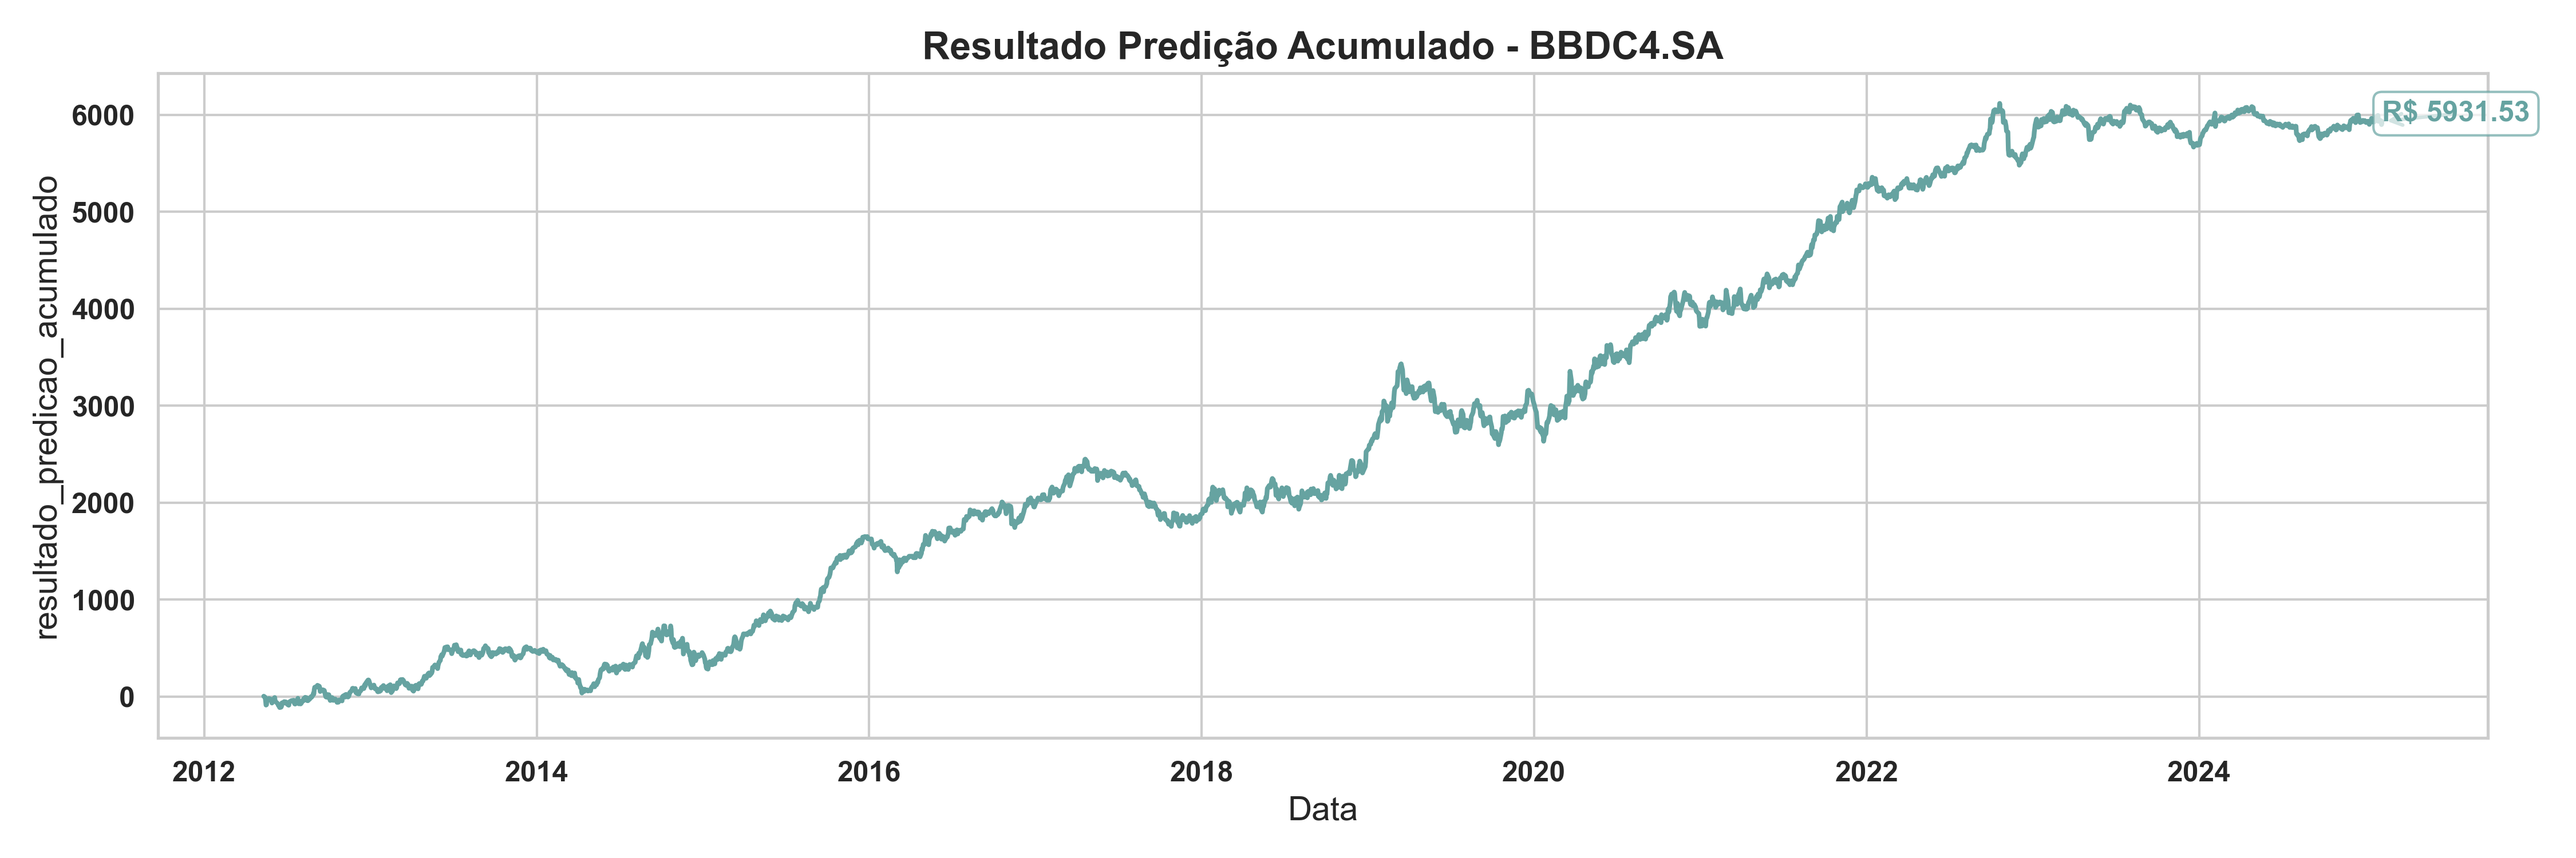
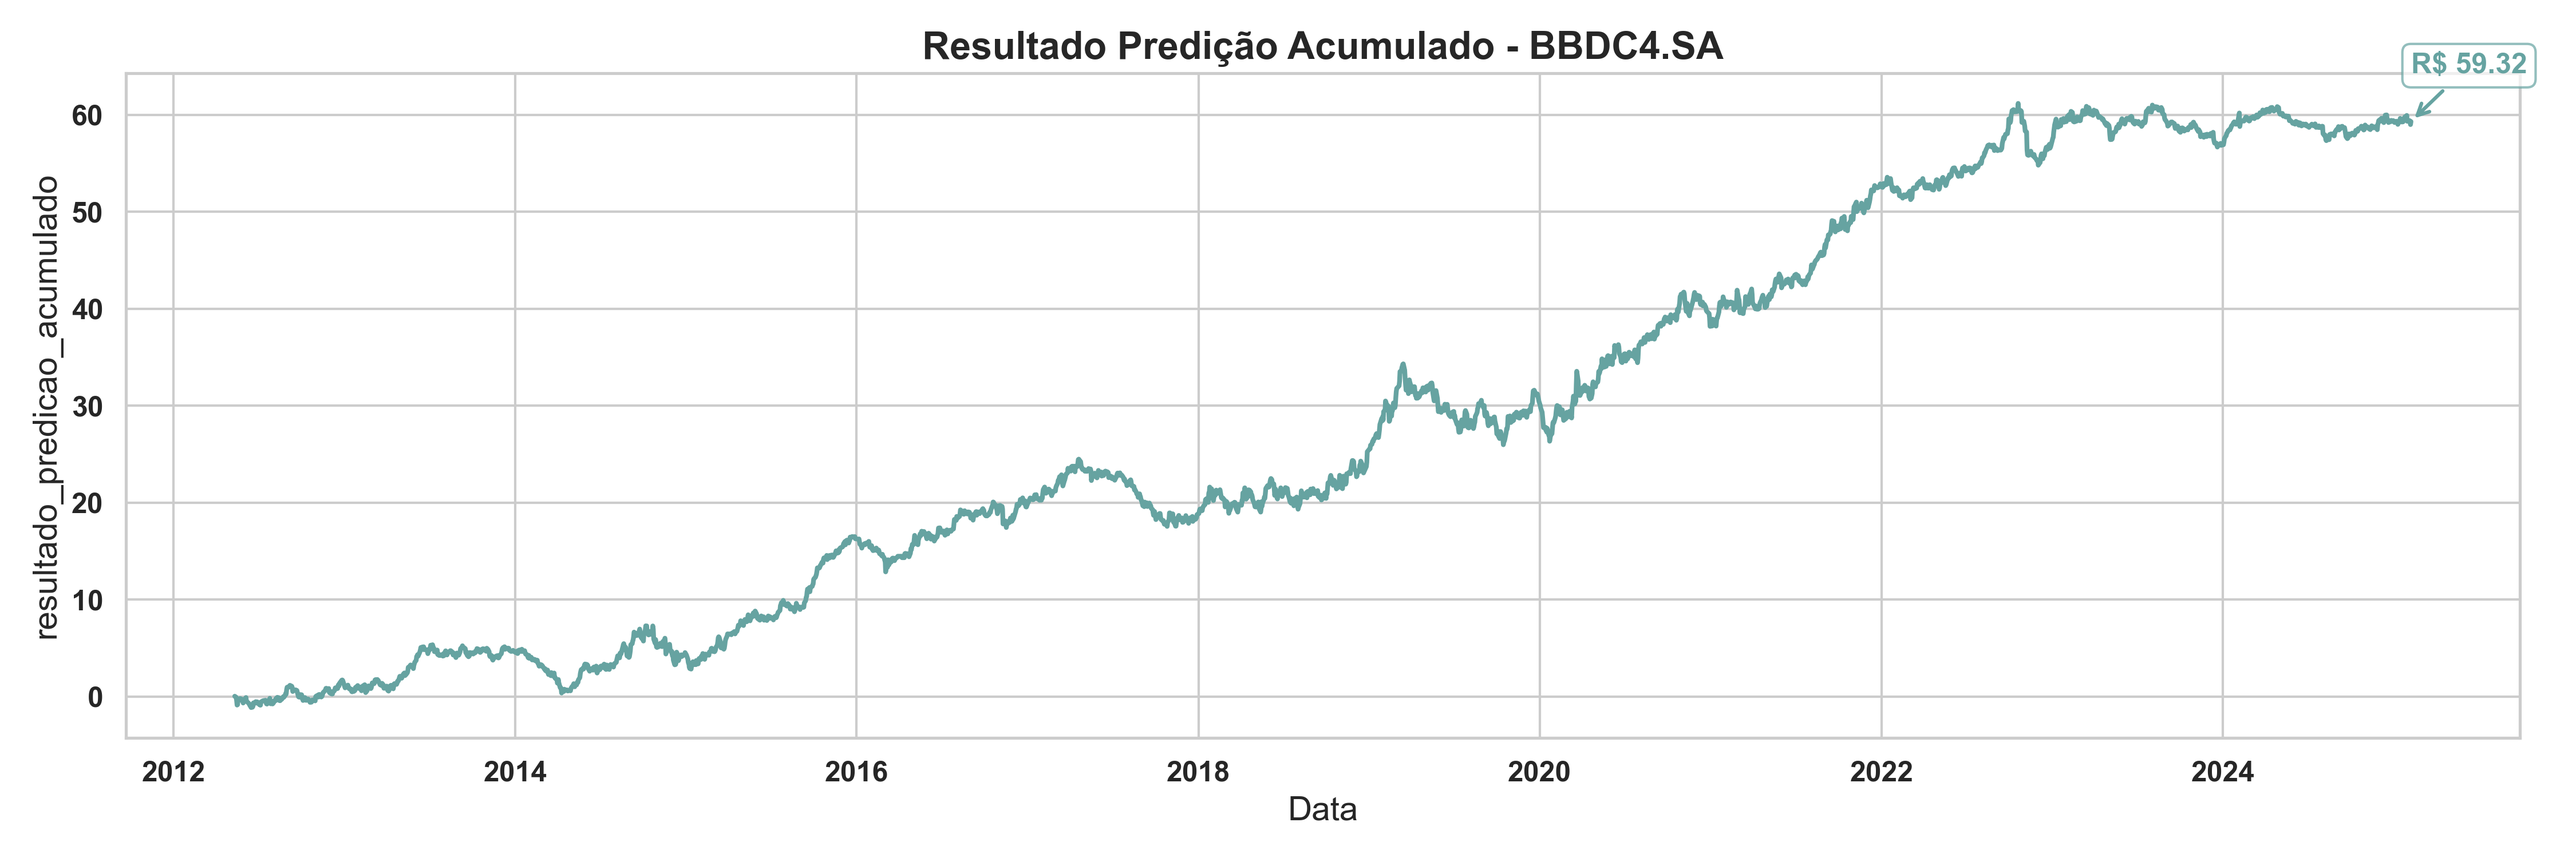
Commit automático - 2025-02-09 14:35:10

diff --git a/strategies/A/inbox_content.html b/strategies/A/inbox_content.html
@@ -109,12 +109,23 @@
 </head>
 <body>
     <div class="container">
+
         <h1>Relatório de Resultados</h1>
-        <p>Prezado(a),</p>
-        <p>Aqui está o relatório de resultados para o dia {{data}}.</p>
+
+        <img src="img_resultado_predicao_acumulado.png" alt="Gráfico de Comparação" style="width:100%; max-width:800px;">
+
+        <img src="img_retorno_anual.png" alt="Gráfico do Retorno" style="width:100%; max-width:800px;">
+
+        <h1>Métricas da Estratégia</h1>
+
+        <img src="img_comparacao_metricas.png" alt="Gráfico das Métricas" style="width:100%; max-width:800px;">
         
+        <img src="img_distribuicao_sinais_predicao_treino.png" alt="Distribuição dos Sinais da Predição Treino" style="width:100%; max-width:250px;">
+        <img src="img_distribuicao_sinais_predicao_teste.png" alt="Distribuição dos Sinais da Predição Teste" style="width:100%; max-width:250px;">
+        <img src="img_distribuicao_sinais_predicao_apos_o_teste.png" alt="Distribuição dos Sinais da Predição Apos o Teste" style="width:100%; max-width:250px;">
+
         <div class="report">
-            <h2>Resumo dos Resultados</h2>
+            <h2>Retorno total a partir da data de início de execução da estrtatégia </h2>
             <p><strong>Indicador 1:</strong> 85%</p>
             <p><strong>Indicador 2:</strong> 92%</p>
             <p><strong>Indicador 3:</strong> 78%</p>

diff --git a/strategies/A/market_behavior_forecaster_local.py b/strategies/A/market_behavior_forecaster_local.py
@@ -3,7 +3,7 @@ import config_model
 from os.path import join, dirname, abspath
 
 # Baixar o script do repositório
-response = requests.get('https://raw.githubusercontent.com/rianlucascs/predicao-dados-binarios/master/api.py')
+response = requests.get("https://raw.githubusercontent.com/rianlucascs/predicao-dados-binarios/master/api.py")
 
 # Executar o código do script
 exec(response.text, globals())
@@ -15,19 +15,20 @@ mb = MarketBehaviorForecasterLocal(
     start=config_model.START, 
     end=config_model.END, 
     ml_model=config_model.ML_MODEL, 
-    p=config_model.P
+    p=config_model.P,
+    contracts=config_model.CONTRACTS
     ).run_forecast_local()
 
 
 path = dirname(abspath(__file__))
 
-mb['graphs'](
-    mb['df']['df'], 
-    'resultado_predicao_acumulado', 
+mb["graphs"](
+    mb["df"]["df"], 
+    "resultado_predicao_acumulado", 
     (15, 5), 
     2, 
-    ylabel='resultado_predicao_acumulado', 
-    title=f'Resultado Predição Acumulado - {config_model.TICKER}', 
+    ylabel="resultado_predicao_acumulado", 
+    title=f"Resultado Predição Acumulado - {config_model.TICKER}", 
     seta=True
     ).linha().savefig(join(path, "img_resultado_predicao_acumulado"))
 
@@ -36,3 +37,39 @@ mb["graphs"](
     None, 
     None, 
     figsize=(10, 5)).comparar_metricas(mb["metrics"]["model"]).savefig(join(path, "img_comparacao_metricas"))
+
+mb["graphs"](
+    mb["df"]["df"], 
+    "resultado_predicao_acumulado", 
+    (15, 5), 
+    1, 
+    ylabel="Retorno Anual (Reais)", 
+    title="Train, Test and After Test"
+    ).barplot().savefig(join(path, "img_retorno_anual"))
+
+mb["graphs"](
+    mb["df"]["train"][["predicao"]],
+    "predicao", 
+    (3, 3), 
+    xlabel='', 
+    title=f"Distribuição - Sinais - Predição (Train)",
+    fontsize_title=10, 
+    tick_params_labelsize=2).pio().savefig(join(path, "img_distribuicao_sinais_predicao_treino"))
+
+mb["graphs"](
+    mb["df"]["test"][["predicao"]],
+    "predicao", 
+    (3, 3), 
+    xlabel='', 
+    title=f"Distribuição - Sinais - Predição (Test)",
+    fontsize_title=10, 
+    tick_params_labelsize=2).pio().savefig(join(path, "img_distribuicao_sinais_predicao_teste"))
+
+mb["graphs"](
+    mb["df"]["after_test"][["predicao"]],
+    "predicao", 
+    (3, 3), 
+    xlabel='', 
+    title=f"Distribuição - Sinais - Predição (After Test)",
+    fontsize_title=10, 
+    tick_params_labelsize=2).pio().savefig(join(path, "img_distribuicao_sinais_predicao_apos_o_teste"))

diff --git a/scheduled_task_executor.py b/scheduled_task_executor.py
@@ -80,3 +80,4 @@ class ScheduledTaskExecutor:
         
         # suspend_computer()
 
+InboxManager("A").to_send()

diff --git a/strategies/A/config_model.py b/strategies/A/config_model.py
@@ -5,3 +5,4 @@ START = "2012-05-11"
 END = "2022-05-11"
 ML_MODEL = "train_decision_tree"
 P = 1
+CONTRACTS = 0
